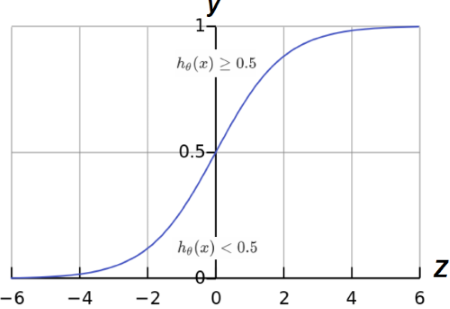
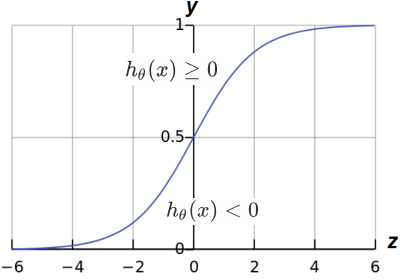
Taking notes

Changed region(s): [[0.0, 0.0, 1.0, 1.0]]

diff --git a/notes/4.0-logistic-regrsssion.md b/notes/4.0-logistic-regrsssion.md
@@ -1,6 +1,12 @@
 # Logistic Regression
 
-Two types of *Logistic Regression* or *classification*: *Binary* and *Multi Class*. Even though Logistic Regression has the word "Regression" in the name, it is used to solve classification problems that are more complex and non-linear in nature. For example, the below data plot shows features that cannot be fit using a linear model.
+Three types of *Logistic Regression* or *classification*:
+
+- Binary (Pass/Fail)
+- Multi (Cats, Dogs, Sheep)
+- Ordinal (Low, Medium, High)
+
+Even though Logistic Regression has the word "Regression" in the name, it is used to solve *classification* problems that are more complex and non-linear in nature. For example, the below data plot shows features that cannot be fit using a linear model.
 
 ![Logistic Regression](../images/logistic-regression.png)
 
@@ -28,17 +34,17 @@ The *Sigmoid* Function, $g$, takes our hypothesis, $z$, as a parameter and retur
 
 > $z = h_\theta(x) \therefore g(z) = \frac{1}{1+e^-z}$
 
-This will effectively scale our hypothesis prediction, $z$, to a value between $0$ and $1$. Our hypothesis prediction, $z$, controls the steepness of the Sigmoid curve. And the numerator, $1$ in this case, is the curves maximum value. The natural logarithm is denoted by $e$ which is a constant value of $2.718$.
+This will effectively scale our hypothesis prediction, $z$, to a value between $0$ and $1$. Our hypothesis prediction, $z$, controls the steepness of the Sigmoid curve. And the numerator, $1$ in this case, is the curves maximum value. The natural logarithm is denoted by $e$ which is a constant of $2.718$.
 
 Below shows a plot of the *Sigmoid* function that shows the *threshold* at $0.5$ which asymptotes (continually approaches but does not meet) at $1$ and $0$ with the $z$ axis on the horizontal:
 
 ![Sigmoid Regression](../images/sigmoid-function.png)
 
-It it worth noting that the prediction returned by the hypothesis function, denoted by $z$, directly corresponds to the *Sigmoid* value, such that:
+It it worth noting that the prediction returned by the hypothesis function directly corresponds to the *Sigmoid* value, such that:
 
-> $h_\theta(x) \ge 0.5$ when $z \ge 0$
+> $g(h_\theta(x)) \ge 0.5$ when $h_\theta(x) \ge 0$
 >
-> $h_\theta(x) \lt 0.5$ when $z < 0$
+> $g(h_\theta(x)) \lt 0.5$ when $h_\theta(x) < 0$
 
 ![Sigmoid Regression](../images/sigmoid-function-h.png)
 
@@ -46,9 +52,9 @@ In interpreting the value returned by the *Sigmoid* function, if it returns $y =
 
 > $\vec x = \begin{bmatrix}{x_0\\x_1}\end{bmatrix}=\begin{bmatrix}{1\\tumorSize}\end{bmatrix}$
 
-If $h_\theta(x) = 0.7$ then we say there is a $70\%$ chance the tumor might be malignant. Therefore, since  $.7 > .5$, we say that $y=1$. More formally, we write this in mathematical terms where we say, the *probability* that $y=1$, given feature $x$, parameterized by $\theta$:
+If $g(h_\theta(x)) = 0.7$ then we say there is a $70\%$ chance the tumor might be malignant. Therefore, since  $.7 > .5$, we say that $y=1$. More formally, we write this in mathematical terms where we say, the *probability* that $y=1$, given feature $x$, parameterized by $\theta$:
 
-> $h_\theta(x) = P(y=1|x;\theta)$
+> $g(h_\theta(x)) = P(y=1|x;\theta)$
 
 Therefore, the probability of $y=0$ plus the probability of $y=1$ will always be equal to $1$:
 
@@ -57,8 +63,6 @@ Therefore, the probability of $y=0$ plus the probability of $y=1$ will always be
 Likewise, we can find the probability of $y$ being $0$ by subtracting the $y=1$ probability from $1$:
 
 > $(y=0|x;\theta)=1-P(y=1|x;\theta)$
-
-***TODO:*** *Learning algorithm for fitting the learning parameters theta* $\theta$.
 
 ### Decision Boundary
 
@@ -82,15 +86,15 @@ Therefore, $y=1$ if $h_\theta(x)\ge3$ and $y=0$ if $h_\theta(x)\lt3$:
 
 > $-3+x_1+x_2\ge0$
 
-Or, rewritten as below where $3$ denotes our *decision boundary*:
+Or, rewritten as below where $3$, the y-intercept, denotes our *decision boundary*:
 
 > $x_1 + x_2 \ge3$
 
-Remember, that $\theta_0$ is our bias weight with a value of 1. So, we are basically saying that *our features lie beyond the boundary where $x_1$ or $x_2$ is 3*. Plotting the line $x_1 + x_2=3$ results in the decision boundary graphed below where both the $x_1$ axis and $x_2$ axis are intercepted at $3$. Therefore, any value on the right side of the decision boundary, where $x_1 + x_2 \ge3$, yields a $y$ value of $1$. Conversely, $x_1 + x_2 \lt3$ will result in a $y$ value of $0$.
+Remember, that $\theta_0$ is our bias weight with a value of 1 since there are no features associated with it. So, we are basically saying that *our features lie beyond the boundary where $x_1$ or $x_2$ is 3*. Plotting the line $x_1 + x_2=3$ results in the decision boundary graphed below where both the $x_1$ axis and $x_2$ axis are intercepted at $3$. Therefore, any value on the right side of the decision boundary, where $x_1 + x_2 \ge3$, yields a $y$ value of $1$. Conversely, $x_1 + x_2 \lt3$ will result in a $y$ value of $0$.
 
 ![Decision Boundary Example](../images/decision-boundary-example.png)
 
-It is important to note that the equation $x_1 + x_2=3$ corresponds to region where $h_\theta(x)=0.5$. Also, the decision boundary, is a property of the hypothesis and not the data set. In other words, removing all features from the graph does not impact the decision boundary or the hypothesis from determining the predicted value for $y$.
+It is important to note that the equation $x_1 + x_2=3$ corresponds to region where $g(h_\theta(x))=0.5$. Also, the decision boundary, is a property of the hypothesis and not the data set. In other words, removing all features from the graph does not impact the decision boundary or the hypothesis from determining the predicted value for $y$.
 
 ## Logistic Regression Cost Function
 
@@ -102,7 +106,7 @@ Here, the *cost* is:
 
 > $\frac{1}{2}(h_\theta(x)^{(1)} - y^{(i)})^2$
 
-Therefore, for reasons described later, we can describe our cost function as:
+Therefore, for reasons described later, we can define our cost function as:
 
 > $Cost(h_\theta(x), y)=\frac{1}{2}(h_\theta(x) - y)^2$
 
@@ -110,11 +114,11 @@ When this function is graphed it results in a *non-convex* graph with multiple l
 
 ![Non-Convex Function Example](../images/non-convex-function.png)
 
-It is non-liner because of the *Sigmoid Function* $ \frac{1}{1+e^-z}$. When using *Gradient Decent* using this cost function you are not guaranteed to converge at the global minimum. What's needed is a convex cost function with a single global minimum. For this to happen, our cost function has to change:
+It is non-liner because of the *Sigmoid Function* $ \frac{1}{1+e^-z}$. When using *Gradient Decent* using this cost function you are not guaranteed to converge at the *global* minimum. What's needed is a convex cost function with a single global minimum. For this to happen, our cost function has to change:
 
-> $Cost(h_\theta(x),y)=\left\{\begin{array}\mbox{-}log(h_\theta(x))&\mbox{if}&y=1\\\mbox{-}log(1-h_\theta(x)&\mbox{if}&y=0\end{array}\right\}$
+> $Cost(h_\theta(x),y)=\left\{\begin{array}\mbox{-}log(h_\theta(x))&\mbox{if}&y=1\\\mbox{-}log(1-h_\theta(x))&\mbox{if}&y=0\end{array}\right\}$
 
-When we plot this cost function we get a graph like below. The log functions where $y=0$ and $y=1$ actual continue on beyond the $z$ axis but we are only concerned with the range between 0 and 1.
+When we plot this cost function we get a graph like below. The log functions where $y=0$ and $y=1$ actually continue on beyond the $z$ axis but we are only concerned with the range between 0 and 1.
 
 ![Convex Logistic Cost Function](../images/logistic-regression-cost-function.png)
 
